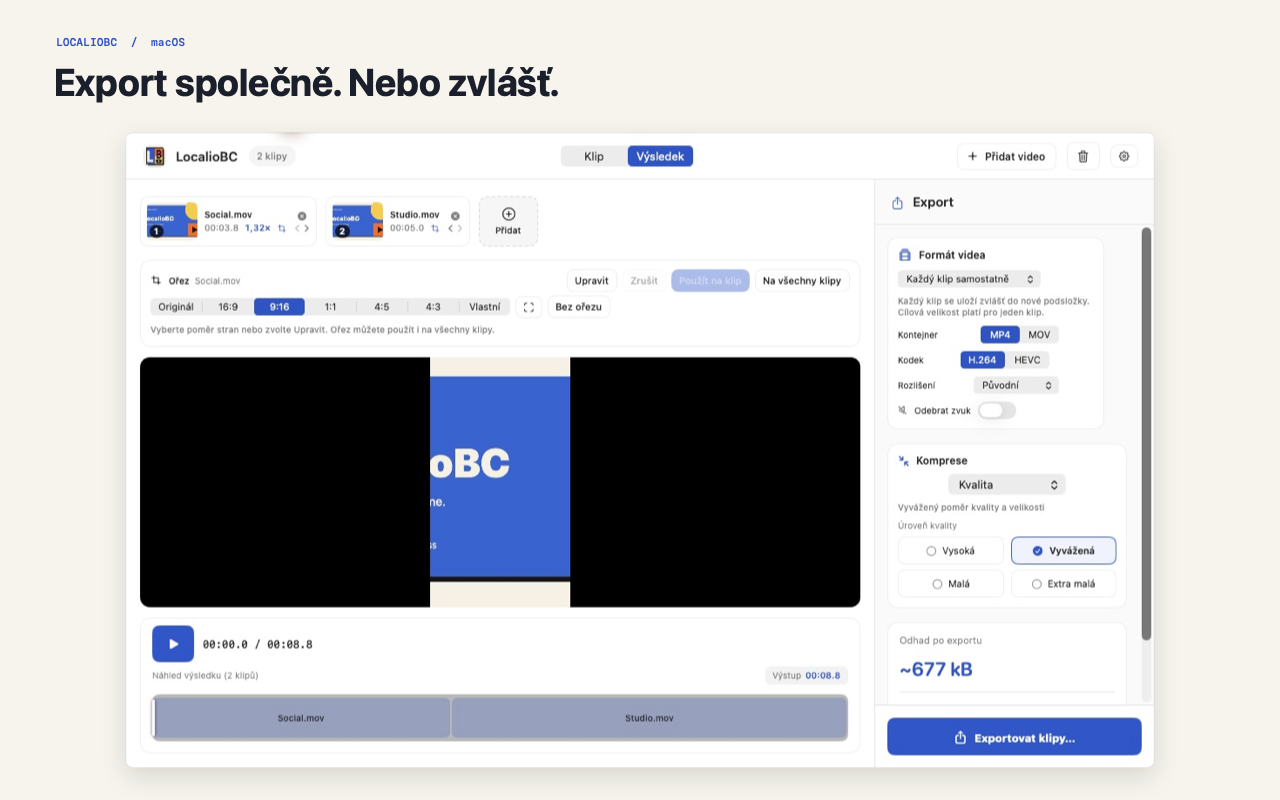
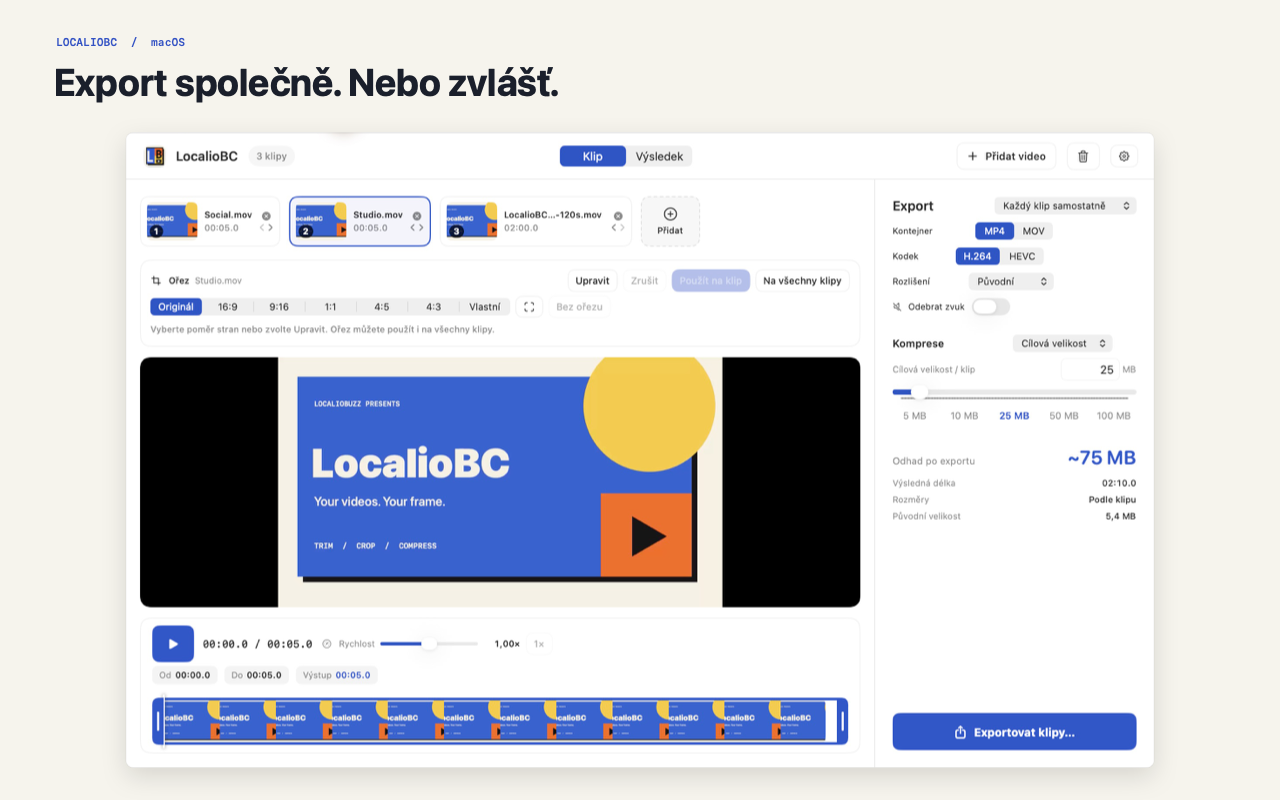
Document 1.2.1 publication and App Store review submission

diff --git a/AppStore/STATUS.md b/AppStore/STATUS.md
@@ -1,55 +1,66 @@
 # Mac App Store status
 
-Review submission verified directly in App Store Connect on **15 November 2026 at 00:39 CET (Europe/Prague)**. Account DAC7 completion verified at **00:48 CET** the same day.
+Review submission verified directly in App Store Connect on **15 November 2026 at 01:27 CET (Europe/Prague)**. Production direct distribution was verified at **01:24 CET**. Account DAC7 completion was verified at **00:48 CET** the same day.
 
-**Version 1.2.0, build 6 is Waiting for Review.** Apple accepted the new submission on **15 November 2026 at 00:38 CET**. The owner authorized withdrawing the pending 1.0.0 (3) submission and replacing it with 1.2.0 (6). The app has not been approved or publicly released. Release remains **manual after approval**.
+**Version 1.2.1, build 7 is Waiting for Review.** Apple accepted the new submission on **15 November 2026 at 01:27 CET**. The owner authorized the new release for both channels. The pending 1.2.0 (6) submission was cancelled, showed Developer Rejected, and was replaced with 1.2.1 (7). The Store app has not been approved or publicly released. Release remains **manual after approval**.
 
 | Distribution channel | Current state |
 | --- | --- |
-| Mac App Store submission | **1.2.0 (6)** — Waiting for Review |
-| App Store Connect upload | **1.2.0 (6)** delivered through Transporter, processed and selected for review; upload listed at 00:24 CET |
-| TestFlight | Build **6**, version **1.2.0**, showed Ready to Submit after processing; this is the beta-testing status, separate from App Store review |
-| Previous Store submission | **1.0.0 (3)**, originally submitted on 13 November, withdrawn and replaced on 15 November |
-| Current Store source/package | **1.2.0 (6)**, universal archive and signed distribution package validated and uploaded |
-| Free direct/GitHub edition | **1.2.0 (6)** published; signed/notarized DMG, signed update feed and English/Czech website verified on 15 November |
+| Mac App Store submission | **1.2.1 (7)** — Waiting for Review |
+| App Store Connect upload | **1.2.1 (7)** delivered through Transporter at 01:17 CET, processed and selected for review |
+| TestFlight | Build processing and selection for App Review were verified; a separate beta-testing status was not read for build 7 |
+| Previous Store submission | **1.2.0 (6)** cancelled on 15 November and replaced; Apple showed Developer Rejected after cancellation |
+| Current Store source/package | **1.2.1 (7)**, universal archive and signed distribution package validated and uploaded |
+| Free direct/GitHub edition | **1.2.1 (7)** published; signed/notarized DMG, signed update feed and English/Czech website verified at 01:24 CET |
 
-Sparkle, its helpers, update configuration and sandbox exceptions are physically excluded from the Store package. Store customers receive updates through Apple. The separately released direct edition includes Sparkle.
+Sparkle, its helpers, update configuration and sandbox exceptions are physically excluded from the Store package. Store customers receive updates through Apple. The separately released direct edition includes Sparkle. Version 1.2.0 was the first updater-enabled direct release; earlier versions need one manual installation of the current direct edition.
 
 Private App Store Connect identifiers and the review URL are stored only in ignored `SubmissionStatus.local.json`.
 
-## Submitted 1.2.0 package and validation
+## Submitted 1.2.1 package and validation
 
 | Item | Result |
 | --- | --- |
-| Store build | LocalioBC 1.2.0 (6), universal arm64/x86_64, macOS 14 minimum |
-| Archive/export | Passed; Xcode automatically re-signed the development archive for App Store distribution during export |
+| Store build | LocalioBC 1.2.1 (7), universal arm64/x86_64, macOS 14 minimum |
+| Archive/export | Passed; Xcode re-signed the development archive for App Store distribution during export |
 | Final package checks | Valid installer signature; packaged app strict signature, both CPU architectures, sandbox, user-selected file access, no debugger entitlement, embedded profile, privacy manifest and MIT licence passed |
 | Store isolation | No Sparkle files, linked framework, updater Info.plist keys, network-client entitlement or updater Mach exceptions |
-| Shared release regression suite | 38 tests passed on the direct target; see [1.2.0 validation](../docs/releases/v1.2.0-validation.md). Store-specific compilation/package checks are recorded separately above |
-| Store native verification | Isolated sandboxed Store preview imported two original clips; continuous speed at 1.32×, crop controls and separate-export UI verified in Czech and English |
-| Listing | English/Czech descriptions updated for continuous 0.25×–4× speed; reviewer notes identify 1.2.0 (6) and Store updater isolation |
-| Screenshots | Six fresh RGB PNGs, 1280 × 800, three per language, uploaded in editor/crop/export order |
+| Shared release regression suite | 38 tests passed with no failures on the direct target; see [1.2.1 validation](../docs/releases/v1.2.1-validation.md) |
+| Native verification | Isolated sandboxed Store preview checked the compact panel, merged/separate exports, progress/completion and simultaneous target-size/crop/result messages at the supported minimum size; details and limits are in the validation report |
+| Listing | Existing English/Czech feature descriptions retained; saved reviewer notes identify 1.2.1 (7), the clean export panel and Store updater isolation |
+| Screenshots | Six fresh RGB PNGs, 1280 × 800: Czech/light and English/dark, three per language, uploaded in editor/crop/export order |
 | Review information | Existing private contact and demo-clips.zip retained; sign-in not required |
-| Public URLs | English/Czech product, support and privacy URLs returned HTTPS 200 during submission preparation |
-| Apple result | 1 Item Submitted; App Review shows 1.2.0 (6), Waiting for Review, submitted 00:38 CET |
+| Release setting | Manual release selected and verified before submission |
+| Apple result | 1 Item Submitted; App Review shows 1.2.1 (7), Waiting for Review, submitted 01:27 CET |
 
-Local package: `dist/app-store-1.2.0-build6/export/LocalioBC.pkg` (2,090,268 bytes).
+Local package: `dist/app-store-1.2.1-build7/export/LocalioBC.pkg` (2,056,081 bytes).
 
[2 lines of base64/hex data omitted]
 
 Intel slices are verified in the package; no runtime test on physical Intel hardware or macOS 14 is claimed. Runtime checks used Apple Silicon on macOS 26.5.1. The isolated screenshot preview used a separate bundle identifier and ad-hoc signature; the uploaded package retains its production identity and Apple distribution signing.
+
+## Published direct edition
+
[1 lines of base64/hex data omitted]
+
+Anonymous download matched the final artifact. The English/Czech production pages, current editor screenshot and exact signed feed bytes were verified at 01:24 CET. The feed publishes 1.2.1 (7) and retains 1.2.0 (6). At 01:29–01:30 CET, an unchanged signed copy of 1.2.0 queried the production feed, offered 1.2.1, installed it and relaunched as 1.2.1 (7); post-install signature and notarization-ticket checks passed. See the [release validation report](../docs/releases/v1.2.1-validation.md).
 
 ## Account configuration
 
 Photo & Video category, English/Czech subtitles and URLs, Data Not Collected, age rating 4+, no third-party catalogue content, no sign-in, EUR 4.99 one-time price (Germany base; Czech equivalent CZK 99), 175 countries/regions and manual release are retained.
 
-Apple initially blocked submission because the Paid Apps Agreement was outdated. The owner explicitly authorized accepting the updated Schedule 2 and 3; the agreement was accepted and verified **Active** on 15 November before submission succeeded. Bank/tax forms and Digital Services Act showed Active.
+The outdated Paid Apps Agreement initially blocked the earlier 1.2.0 submission. The owner explicitly authorized accepting the updated Schedule 2 and 3; the agreement was accepted and verified **Active** before that submission succeeded at 00:38 CET on 15 November. Bank/tax forms and Digital Services Act showed Active. The agreement was not accepted again for 1.2.1.
 
 **DAC7 is Active**, completed and verified on 15 November at 00:48 CET. In Business → Compliance → DAC7 → Add Info, the answer to whether any apps provide personal services was saved as **No**, after the owner confirmed that none of the account's apps offer such services. The previous Missing Info item is resolved. No banking or tax identification details were changed. Reassess the declaration if the account's apps begin offering paid personal services.
 
+## Submission history
+
+- **1.0.0 (3):** submitted on 13 November; withdrawn and replaced with 1.2.0 on 15 November. Historical package: `dist/app-store-final/`.
[1 lines of base64/hex data omitted]
+
 ## Remaining work
 
-1. Await Apple's review of **1.2.0 (6)** and respond to any feedback.
+1. Await Apple's review of **1.2.1 (7)** and respond to any feedback.
 2. Release manually after approval, then add the working public App Store URL to the website. Until release, the website correctly says the paid Store edition is coming soon; direct distribution is already available free.
 
-Evidence (local, ignored): `dist/app-store-1.2.0-build6/submitted.png`, `transporter-delivered.png`, `paid-agreement-active.png`, `dac7-completed.png` and `listing-validation.json` in the same directory. Account screenshots are not committed to the public repository. Historical package: `dist/app-store-final/` (1.0.0 build 3); it must not be mistaken for the current upload.
+Current submission evidence (local, ignored): `dist/app-store-1.2.1-build7/submitted.png`. Historical submission/upload and account evidence remain under `dist/app-store-1.2.0-build6/`, including `paid-agreement-active.png` and `dac7-completed.png`. Account screenshots are not committed to the public repository.

diff --git a/AppStore/README.md b/AppStore/README.md
@@ -1,18 +1,18 @@
 # Mac App Store submission kit
 
-LocalioBC **1.2.0 (6)** is submitted and waiting for review as a one-time paid Mac App Store app at **EUR 4.99**. The product positioning is **simple, quick video cropping**, with trimming, compression and batch export as supporting features. The public GitHub/direct edition remains free. Store builds do not claim to be free and contain no GitHub link.
+LocalioBC **1.2.1 (7)** is submitted and waiting for review as a one-time paid Mac App Store app at **EUR 4.99**. The product positioning is **simple, quick video cropping**, with trimming, compression and batch export as supporting features. The public GitHub/direct edition remains free. Store builds do not claim to be free and contain no GitHub link.
 
 ## Current submission
 
-**Verified in App Store Connect on 15 November 2026 at 00:39 CET (Europe/Prague):** version **1.2.0 (6)** is **Waiting for Review**, submitted at 00:38 CET. The owner authorized replacing the pending 1.0.0 (3) submission. The new package was delivered through Transporter, processed and selected; English/Czech descriptions, six screenshots and reviewer notes now reflect 1.2.0. Release remains manual after approval. The free direct edition 1.2.0 (6) is already published.
+**Verified in App Store Connect on 15 November 2026 at 01:27 CET (Europe/Prague):** version **1.2.1 (7)** is **Waiting for Review**, submitted at 01:27 CET. The owner authorized the new release for both distribution channels. The pending 1.2.0 (6) submission was cancelled and showed Developer Rejected before replacement. Transporter delivered build 7 at 01:17 CET; Apple processed it and it was selected for review. Six new Czech/light and English/dark screenshots and saved reviewer notes reflect the compact 1.2.1 export panel. Release remains manual after approval. The free direct edition 1.2.1 (7), website and signed update feed are already published.
 
 The outdated Paid Apps Agreement initially blocked submission. It was updated with explicit owner approval and verified Active; submission then succeeded. DAC7 was completed at 00:48 CET on 15 November and is Active: the owner confirmed that no apps in the account provide personal services, and the answer No was saved. See [current status and next steps](STATUS.md). Private identifiers and account URLs remain in ignored `SubmissionStatus.local.json`.
 
-## Submitted 1.2.0 artifacts
+## Submitted 1.2.1 artifacts
 
-- `dist/app-store-1.2.0-build6/export/LocalioBC.pkg`: signed Mac App Store upload package.
-- `dist/app-store-1.2.0-build6/LocalioBC-1.2.0-6.xcarchive`: universal archive with symbols for Xcode Organizer.
-- `dist/app-store-1.2.0-build6/export/SHA256SUMS.txt`: package checksum.
+- `dist/app-store-1.2.1-build7/export/LocalioBC.pkg`: signed Mac App Store upload package.
+- `dist/app-store-1.2.1-build7/LocalioBC-1.2.1-7.xcarchive`: universal archive with symbols for Xcode Organizer.
+- `dist/app-store-1.2.1-build7/export/SHA256SUMS.txt`: package checksum.
 - `metadata/en-US/` and `metadata/cs/`: ready-to-paste name, subtitle, description, promotional text, keywords, first-release notes and URLs.
 - `screenshots/en-US/` and `screenshots/cs/`: three screenshots per language, PNG, **1280 × 800**, RGB without alpha. Upload in numbered order. Raw captures are ignored by Git.
 - `assets/icon-1024.png`: source icon. Xcode bundles the macOS AppIcon asset automatically.
@@ -34,7 +34,7 @@ Use the existing Localio Labs s.r.o. team **4RY8J45UR3**. Register/select the ex
 | Primary language | English (US), with Czech localization |
 | SKU | LOCALIOBC-MAC-001 |
 | Bundle ID | com.localiobvideo.app |
-| Version/build | 1.2.0 / 6 |
+| Version/build | 1.2.1 / 7 |
 | Primary category | Photo & Video |
 | macOS requirement | 14.0 or later |
 | Devices | Apple Silicon and Intel Macs |
@@ -52,9 +52,9 @@ Pricing is saved in App Store Connect: Germany EUR 4.99, with Apple-generated eq
 ## Upload and submit a future Store build
 
 1. Confirm the live marketing/support/privacy URLs in `metadata/` are publicly accessible over HTTPS, without sign-in.
-2. Create and validate a fresh `LocalioBC-AppStore` archive/package for the intended version/build (current source: 1.2.0 / 6). Open it in Xcode Organizer and choose Distribute App → App Store Connect, or upload the exported `.pkg` with Apple's Transporter. Use the Localio Labs team. The existing `dist/app-store-final` package is the historical 1.0.0 (3) upload, not 1.2.0.
+2. Create and validate a fresh `LocalioBC-AppStore` archive/package for the intended version/build (current source: 1.2.1 / 7). Open it in Xcode Organizer and choose Distribute App → App Store Connect, or upload the exported `.pkg` with Apple's Transporter. Use the Localio Labs team. The existing `dist/app-store-final` and `dist/app-store-1.2.0-build6` packages are historical 1.0.0 (3) and 1.2.0 (6) uploads; preserve them unchanged.
 3. Wait for Apple processing. Resolve validation issues, then select the matching build for the macOS version. If replacing a pending submission, remove that version from review first as required by App Store Connect. A successful local export does not mean a build was uploaded, reviewed or approved.
-4. Update the English and Czech metadata, screenshots and review notes for the intended release before uploading them. The current kit describes the submitted 1.2.0 feature set. First-release notes are retained in `whats_new.txt`; Apple did not expose a What’s New field for this first Store release, so the descriptions and reviewer notes carry the feature details.
+4. Update the English and Czech metadata, screenshots and review notes for the intended release before uploading them. The current kit describes the submitted 1.2.1 feature set. First-release notes are retained in `whats_new.txt`; Apple did not expose a What’s New field for this first Store release, so the descriptions and reviewer notes carry the feature details.
 5. Select Data Not Collected and enter the localized privacy URLs. Complete the current age-rating and export-compliance questionnaires using `PRIVACY-AND-COMPLIANCE.md` as the source-specific preparation.
 6. Paste the reviewer notes, attach `review/demo-clips.zip`, set Sign-in required to No and enter the private contact.
 7. Confirm price, regions, copyright, content rights, company/trader information and manual release. Submit for review after checking all required fields.
@@ -67,11 +67,11 @@ The scripts do not upload or submit automatically. The current package was uploa
 Xcode 26.3 was used for this preparation. Automatic signing is configured for the Localio Labs team; Xcode archives with a managed development identity and re-signs for App Store distribution during export. Required Store/installer profiles and certificates are managed by Xcode when the signed-in account permits it. Secrets remain in the Keychain/Xcode account, not this repository.
 
 ```sh
-python3 Scripts/validate-app-store.py --check-live-urls  # current 1.2.0 listing kit
-bash Scripts/build-app-store.sh dist/app-store-1.2.0-build6-rebuild
+python3 Scripts/validate-app-store.py --check-live-urls  # current 1.2.1 listing kit
+bash Scripts/build-app-store.sh dist/app-store-1.2.1-build7-rebuild
 ```
 
-Use a new output directory on each build. `RELEASE_VERSION` and `BUILD_NUMBER` can override the defaults read from the `LocalioBC-AppStore` target (currently **1.2.0 and 6**). To reproduce the historical submission, explicitly set `RELEASE_VERSION=1.0.0 BUILD_NUMBER=3` and use the matching historical source; changing version strings alone does not reproduce that binary. The pre-export validator uses `--store-archive` because an automatically development-signed archive may lack an embedded profile; exported package validation always requires the distribution profile. Both phases check updater isolation. The script verifies both CPU architectures, package signing, the packaged app's strict signature, sandbox/file grants, disabled debugger attachment, embedded profile, bundled privacy manifest/license and SHA-256. It never uploads or submits review.
+Use a new output directory on each build. `RELEASE_VERSION` and `BUILD_NUMBER` can override the defaults read from the `LocalioBC-AppStore` target (currently **1.2.1 and 7**). To reproduce a historical submission, explicitly set its version/build and use the matching historical source; changing version strings alone does not reproduce that binary. The pre-export validator uses `--store-archive` because an automatically development-signed archive may lack an embedded profile; exported package validation always requires the distribution profile. Both phases check updater isolation. The script verifies both CPU architectures, package signing, the packaged app's strict signature, sandbox/file grants, disabled debugger attachment, embedded profile, bundled privacy manifest/license and SHA-256. It never uploads or submits review.
 
 ```sh
 xcodebuild -project LocalioBC.xcodeproj -scheme LocalioBC \
@@ -80,7 +80,7 @@ xcodebuild -project LocalioBC.xcodeproj -scheme LocalioBC \
   -maximum-test-execution-time-allowance 60 test
 ```
 
-The signed App Store package and developer archive are generated locally and ignored by Git. The shipping Store archive contains no screenshot fixtures or extra test entitlements. A separate ad-hoc Store-configuration preview with an isolated bundle identifier was used for current native screenshots, import, speed and crop UI checks. Historical 1.0.0 smoke testing also verified separate file export; see the 1.2.0 validation report for the current shared regression suite.
+The signed App Store package and developer archive are generated locally and ignored by Git. The shipping Store archive contains no screenshot fixtures or extra test entitlements. A separate ad-hoc Store-configuration preview with an isolated bundle identifier was used for current native screenshots and layout/export checks. The direct target passed all 38 shared regression tests for 1.2.1; see the [current validation report](../docs/releases/v1.2.1-validation.md) for native checks and runtime limitations.
 
 ## Reproduce screenshot artwork
 

diff --git a/README.md b/README.md
@@ -12,7 +12,7 @@ No subscriptions, ads, watermarks, accounts or uploads. Built with SwiftUI, AppK
 
 ## Download for macOS
 
-[**Download LocalioBC 1.2.0 for Mac**](https://github.com/bradacz/LocalioBC/releases/download/v1.2.0/LocalioBC-1.2.0-universal.dmg) · [All releases](https://github.com/bradacz/LocalioBC/releases)
+[**Download LocalioBC 1.2.1 for Mac**](https://github.com/bradacz/LocalioBC/releases/download/v1.2.1/LocalioBC-1.2.1-universal.dmg) · [All releases](https://github.com/bradacz/LocalioBC/releases)
 
 Requires **macOS 14 or later**. One universal DMG supports **Apple Silicon and Intel**. Open the disk image, drag **LocalioBC.app** into **Applications**, then eject the image and launch the app.
 
@@ -57,6 +57,8 @@ A dedicated settings panel provides a fixed navigation sidebar, visual appearanc
 [View the dark appearance](docs/screenshots/settings-en-dark.png).
 
 ## Build from source
+
+The fixed [design requirements](AGENTS.md) apply to future changes: one clean export surface, no decorative section frames or darker backgrounds, and all editing/export controls visible without scrolling at the default and supported minimum window sizes. Feature work does not authorize a redesign. Native checks must cover Czech/English, light/dark appearance and the relevant export states before a layout change is complete.
 
 Requires **macOS 14 or later** and **Xcode 16 or later with Swift 6**. Development and tests are verified with Xcode 26.3. Xcode resolves the pinned **Sparkle 2.10.1** binary package for the direct target. The separate Store target has no Sparkle dependency; `Package.resolved` is committed.
 
@@ -142,7 +144,7 @@ The script archives both architectures in Release mode and performs a Developer 
 
 ## Mac App Store edition
 
-**Status verified 15 November 2026, 00:39 CET:** Store version **1.2.0 (6)** was uploaded and submitted at 00:38 CET and is **Waiting for Review**, with manual release after approval. It replaces the withdrawn 1.0.0 (3) submission. The free direct edition **1.2.0 (6)** is already public. DAC7 was completed and verified Active at 00:48 CET. See [current Store status](AppStore/STATUS.md) for validation and release steps.
+**Status verified 15 November 2026, 01:27 CET:** Store version **1.2.1 (7)** was uploaded at 01:17 CET, processed and submitted at 01:27 CET. It is **Waiting for Review**, with manual release after approval, and replaces the withdrawn 1.2.0 (6) submission. The free direct edition **1.2.1 (7)**, production website and signed update feed are public and were verified at 01:24 CET. DAC7 was completed and verified Active at 00:48 CET. See [current Store status](AppStore/STATUS.md) and [1.2.1 validation](docs/releases/v1.2.1-validation.md).
 
 The separate `LocalioBC-AppStore` target/scheme archives the paid Store configuration with sandboxing, a bundled privacy manifest and licence, and copy appropriate for a one-time purchase. It shares editing sources with the direct target, while physically excluding Sparkle, its helpers, update configuration and sandbox exceptions. Both archives and exported Store packages are checked for updater isolation. The public GitHub DMG remains the free direct edition.
 
@@ -152,7 +154,7 @@ The complete [submission kit](AppStore/README.md) includes English/Czech metadat
 
 ## Automatic updates
 
-Version **1.2.0 is the first updater-enabled direct release**. Install it manually once if you use 1.1.0 or earlier. Later direct releases can update in the app. The [Mac App Store manages its own updates](https://developer.apple.com/app-store/review/guidelines/#hardware-compatibility).
+Version **1.2.0 is the first updater-enabled direct release**. Users of 1.2.0 can update to 1.2.1 in the app. If you use 1.1.0 or earlier, install the current direct release manually once to gain the updater. The [Mac App Store manages its own updates](https://developer.apple.com/app-store/review/guidelines/#hardware-compatibility).
 
 - [Sparkle 2.10.1](https://sparkle-project.org/documentation/) supplies **Check for Updates…** in the app menu and Settings. Its native consent prompt offers daily checks and optional automatic downloads; preferences can be changed in Settings. System profiling is disabled. Video editing remains offline; update-check connection metadata is described in the privacy policy.
 - The stable feed is `https://localiobc.mylocalio.com/updates/appcast.xml`. It points to immutable, versioned GitHub DMGs and embeds Czech/English markdown release notes inside the signed feed, avoiding a separate notes request or HTML player.
@@ -165,8 +167,8 @@ Release order: tests → universal Archive/Developer ID export → notarization/
 After `build-dmg.sh` completes, generate the signed feed using the matching Sparkle tools from Xcode's `SourcePackages/artifacts/sparkle/Sparkle/bin`:
 
 ```sh
-python3 Scripts/generate-update-feed.py dist/v1.2.0/LocalioBC-1.2.0-universal.dmg \
-  --app dist/v1.2.0/export/LocalioBC.app \
+python3 Scripts/generate-update-feed.py dist/v1.2.1-build7/LocalioBC-1.2.1-universal.dmg \
+  --app dist/v1.2.1-build7/export/LocalioBC.app \
   --tools-dir /path/to/SourcePackages/artifacts/sparkle/Sparkle/bin
 ```
 

diff --git a/docs/releases/v1.2.1-validation.md b/docs/releases/v1.2.1-validation.md
@@ -1,0 +1,44 @@
+# LocalioBC 1.2.1 release validation
+
+Build 7. Release, deployment and submission checks completed on 15 November 2026 (Europe/Prague).
+
+## Automated and native checks
+
+- The direct target passed **38 tests with no failures**: 8 updater tests and 30 video-pipeline tests. Xcode reported `TEST SUCCEEDED`.
+- Native layout checks covered Czech/light appearance at the default 1180 × 760 window size and the supported minimum editor content size of 1040 × 680, plus English/dark appearance at both sizes. Quality, target-size and lossless layouts were inspected.
+- At minimum size, merged and separate target-size modes retained all controls and the full export action. A 1 MB validation warning, pending-crop message and completed-export result were visible together without sidebar scrolling.
+- A merged 130-second export and a separate three-clip export completed. Export progress and completion were inspected in the native app.
+- Local screenshots document these states under `dist/design-cleanup/`: `cs-minimum-completion.png`, `cs-minimum-warning-crop-result.png`, `en-dark-minimum-export.png` and `en-dark-minimum-warning-crop-result.png`. These QA artifacts are not included in the public repository.
+- Runtime checks used Apple Silicon on macOS 26.5.1. Physical Intel hardware and macOS 14 were not available for runtime testing.
+
+## Direct package and update feed
+
+- The universal Developer ID archive and export succeeded. App and DMG notarization returned **Accepted**, and both stapled tickets validated.
+- The app mounted from the final DMG passed the distribution validator: arm64/x86_64, strict signatures, sandbox, privacy declarations and direct-channel updater configuration. Gatekeeper accepted both app and DMG as **Notarized Developer ID**.
+- The final DMG and local update feed were signed with the existing Sparkle Ed25519 key. Both signatures verified. The feed contains 1.2.1 (7) followed by the unchanged 1.2.0 (6) item.
+
+Artifact: `dist/v1.2.1-build7/LocalioBC-1.2.1-universal.dmg` (2,188,411 bytes).
+
[1 lines of base64/hex data omitted]
+
+## Store package
+
+Artifact: `dist/app-store-1.2.1-build7/export/LocalioBC.pkg` (2,056,081 bytes).
+
[1 lines of base64/hex data omitted]
+
+Package creation and local validation do not establish App Store submission or approval. The current account-side state is tracked in [AppStore/STATUS.md](../../AppStore/STATUS.md).
+
+## Published release and production update
+
+- GitHub release [v1.2.1](https://github.com/bradacz/LocalioBC/releases/tag/v1.2.1) is public and marked latest. Its annotated tag points to source commit `fd35982c75029fcaa97d650cd1b4f98938965d22`. Anonymous download of the final DMG matched the checksum above; the public checksum file also matched.
+- Website commit `8cc6733` deployed through the existing GitHub → Cloudflare Pages integration. English and Czech pages returned HTTPS 200 with the 1.2.1 CTA, release news and updated native screenshot. Historical release links remain available.
[1 lines of base64/hex data omitted]
+- A pristine signed direct 1.2.0 (6) copy in `/private/tmp/localiobc-1.2.1-production-update-test/LocalioBC.app` queried the real production feed and offered 1.2.1 with the correct release notes. Install Update downloaded and installed the release and relaunched it. The running process path and the same bundle's Info.plist confirmed **1.2.1 (7)** after the upgrade; Settings also showed 1.2.1. The installed app passed strict signature, distribution-isolation and stapled-notarization checks. The existing `/Applications/LocalioBC.app` was unchanged. Offer evidence: `dist/design-cleanup/production-update-offer.png`.
+- The owner independently reported that the application had been tried and was OK.
+
+## App Store submission
+
+Apple received build 7 through Transporter at 01:17 CET. The owner-authorized replacement withdrew 1.2.0 (6), retained its build in the account, selected 1.2.1 (7), and updated six actual native screenshots and reviewer notes. English uses dark appearance and Czech uses light appearance; each set is ordered editor, crop, export. The existing private contact and demo attachment were retained. Manual release remains selected.
+
+At **01:27 CET**, App Store Connect confirmed **1 Item Submitted**, then **1.2.1 (7), Waiting for Review**, with a submission time of 01:27. This is submission acceptance, not approval or public App Store release. Evidence: ignored `dist/app-store-1.2.1-build7/submitted.png`; private identifiers remain in ignored submission metadata.

diff --git a/website/README.md b/website/README.md
@@ -8,7 +8,7 @@ The static source is in `public/`; `python3 build.py` copies it to `dist/`. Ther
 
 Production source: `bradacz/LocalioBC`, branch `main`, directory `website`.
 Cloudflare Pages project: `localiobc-web` (`localiobc-web.pages.dev`). Build command `python3 build.py`, output `dist`, root `website`; preview builds disabled.
-The initial GitHub deployment `2ccb08e9-bfaa-4665-b4d3-95fdc6978922` succeeded on 13 November 2026. Custom-domain cutover is being verified; do not claim it complete before DNS and HTTPS checks.
+The initial GitHub deployment `2ccb08e9-bfaa-4665-b4d3-95fdc6978922` succeeded on 13 November 2026. Custom-domain cutover was verified on 14 November; the 1.2.1 production pages, screenshot and signed feed were verified again on 15 November at 01:24 CET.
 The previous Sites project `appgprj_6af5c725b70c81918f92ee2b358f6e7f` is historical and is no longer the intended publishing workflow. Do not publish from its temporary checkout.
 
 See [Google measurement and verification](GOOGLE.md) for IDs, consent behavior and acceptance state.
@@ -25,13 +25,13 @@ See [Google measurement and verification](GOOGLE.md) for IDs, consent behavior a
 
 Only records for the new `localiobc` hostname were added in the mylocalio.com Cloudflare zone. Existing apex, wildcard, mail and other subdomain records were preserved.
 
-- Target after verified cutover: `localiobc.mylocalio.com` CNAME `localiobc-web.pages.dev`. Previous target was `custom-domains.chatgpt.site`.
+- Verified production target: `localiobc.mylocalio.com` CNAME `localiobc-web.pages.dev`. Previous target was `custom-domains.chatgpt.site`.
 - `_openai-site-verification.localiobc.mylocalio.com` TXT: ownership verification managed by Sites.
 - `_cf-custom-hostname.localiobc.mylocalio.com` TXT: certificate/hostname verification managed by Sites.
 
 The two TXT records above belong to the historical Sites hosting. Do not remove unrelated DNS records. Verify the Pages custom-domain status and HTTPS after cutover.
 
-The page advertises the App Store edition as coming soon at EUR 4.99. Version 1.2.1 (7) was uploaded on 15 November 2026 at 01:17 CET; processing and replacement of the pending 1.2.0 (6) submission are in progress. A new review submission has not yet been verified. Release remains manual after Apple approval. See [Store status](../AppStore/STATUS.md) for the latest verified state. It links to the full free direct download, explicitly stating that all features are included with no time limits, paid unlocks or watermarks. A GitHub source link is available in the footer. Add a genuine App Store product URL after Apple approves and releases the listing; do not insert a guessed app ID or non-working store badge.
+The page advertises the App Store edition as coming soon at EUR 4.99. Version 1.2.1 (7) was uploaded on 15 November 2026 at 01:17 CET, processed, selected and submitted at 01:27 CET. App Review was verified as **Waiting for Review**, replacing the cancelled 1.2.0 (6) submission. Release remains manual after Apple approval. See [Store status](../AppStore/STATUS.md) for the latest verified state. The website links to the full free direct download, explicitly stating that all features are included with no time limits, paid unlocks or watermarks. A GitHub source link is available in the footer. Add a genuine App Store product URL after Apple approves and releases the listing; do not insert a guessed app ID or non-working store badge.
 
 ## Scroll effects
 
@@ -52,3 +52,5 @@ The public [GitHub release 1.2.1](https://github.com/bradacz/LocalioBC/releases/
 The English and Czech privacy pages distinguish local offline editing from optional update connections. They identify Cloudflare and GitHub Releases, explain ordinary connection logs (including IP address and version-bearing User-Agent), and state that no system profile, clip data or media files are sent. The macOS app contains no analytics SDK. App Store updates remain Apple's responsibility; Sparkle is absent from that edition. Do not promise hosting-provider log retention periods.
 
 The signed feed and release notes under `public/updates/` are maintained by the release process. Do not modify their bytes after signing, inject website analytics into them, or publish them before the referenced DMG is available.
+
+Production verification on 15 November at 01:24 CET confirmed both homepages, the current screenshot and byte-exact signed feed. At 01:29–01:30 CET, an unchanged signed copy of direct 1.2.0 retrieved this production feed and successfully installed/relaunched as 1.2.1 (7); the installed signature and notarization ticket passed. See the [release validation report](../docs/releases/v1.2.1-validation.md).
